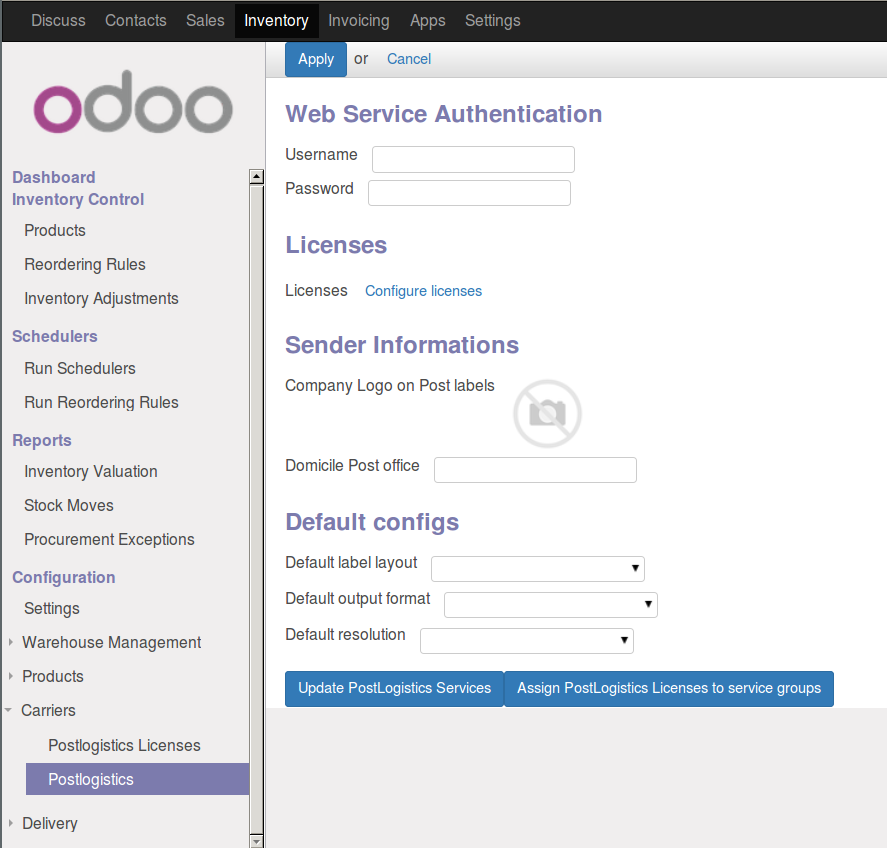
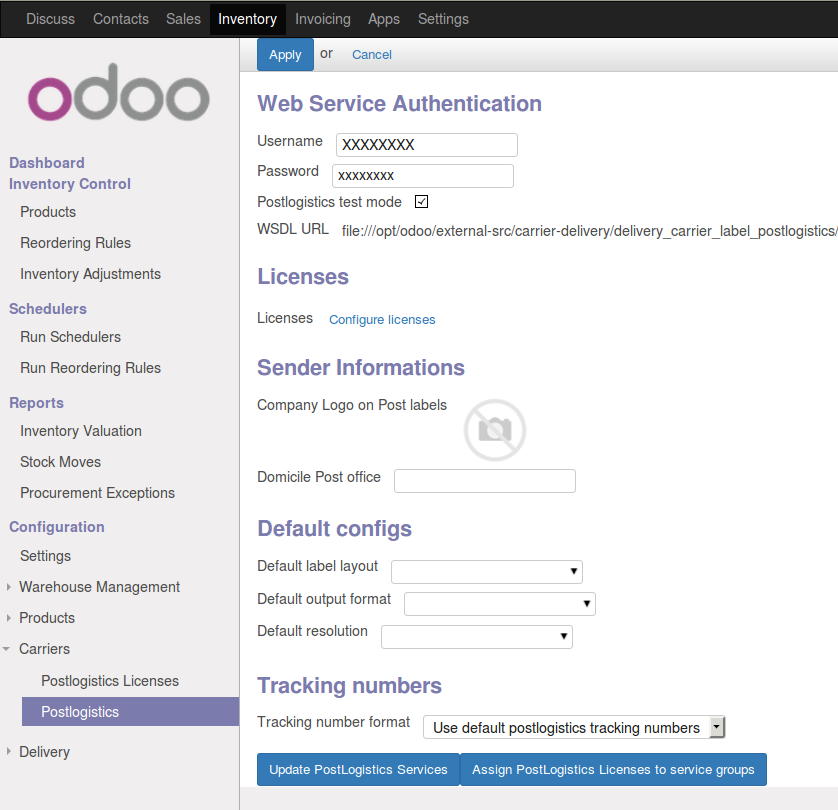
WIP

Changed region(s): [[0.0, 0.0, 1.0, 1.0], [0.5585, 0.4321, 0.6516, 0.5864], [0.5895, 0.1852, 0.6205, 0.216]]

diff --git a/delivery_carrier_label_postlogistics/doc/guides/delivery_method_setup.rst b/delivery_carrier_label_postlogistics/doc/guides/delivery_method_setup.rst
@@ -4,8 +4,7 @@
 Setting up delivery methods
 ###########################
 
-Before we can generate our first labels we needs to setup one or multiple *Delivery Methods*.
-of PostLogistics type.
+Before we can generate our first labels we needs to setup one or multiple *Delivery Methods* of PostLogistics type.
 
 There are several possibilities of option combination. Here we won't enumarate them all, please refer to `"Barcode" web service manual`_ for an exaustive list.
 
@@ -13,10 +12,12 @@ There are several possibilities of option combination. Here we won't enumarate t
 Create delivery method
 **********************
 
-Go in *Inventory/Settings/Delivery/Delivery Methods* and create a new delivery methods
+Go in *Inventory/Settings/Delivery/Delivery Methods* and create a new delivery methods:
 
 .. image:: ../_static/img/delivery_method1-create.png
    :alt: Menu Delivery Methods
+
+Here are the steps to configure your *Delivery Method*:
 
 1. Give a name to your delivery method
 2. Choose type *PostLogistics*
@@ -42,12 +43,16 @@ Add a basic service by adding on option.
    Important: only the basic options of the selected service group will be available.
    If your option is not there, for exemple you are looking for *Bulky goods "Lightning"* this one is in *Swiss-Express / Swiss-Courier* service group.
 3. *Save and close*
+4. *Save* the *Delivery Method*
 
-Save again the delivery method (We need to refresh the list as now we will have delivery instruction allowed with the basic service)
+The delivery method ready to be used. However, you might want to add some optional services and/or delivery instructions to it.
+
 
 *******************************************
 Optional services and delivery instructions
 *******************************************
+
+Make sure you have saved the *Delivery Method* when setting the *Basic service* (We need to refresh the list of options, once refreshed delivery instruction will be available).
 
 Now you can set as many other options and delivery instructions as you need.
 
@@ -66,7 +71,7 @@ There are 3 types of options:
     e. g. You can add a delivery instruction as optional for rare case when the customer asks to be called when the package arrives.
 
 
-Here is an exemple of *Applied by default* option.
+Here is an exemple of *Applied by default* option. *Applied by Default* is checked.
 
 .. image:: ../_static/img/delivery_method3-option-default.png
    :alt: Applied by default option

diff --git a/delivery_carrier_label_postlogistics/doc/guides/configuration.rst b/delivery_carrier_label_postlogistics/doc/guides/configuration.rst
@@ -8,8 +8,9 @@ Configuration
 Here you will find how to configure Postlogistics WSBC module we just have installed.
 
 The configuration is done in:
-for Odoo 7.0 and 8.0 in *Settings/Configuration/Carriers/Postlogistics*
-for Odoo 9.0 in *Inventory/Settings/Carriers/Postlogistics*
+
+* for Odoo 7.0 and 8.0 in *Settings/Configuration/Carriers/Postlogistics*
+* for Odoo 9.0 in *Inventory/Settings/Carriers/Postlogistics*
 
 .. image:: ../_static/img/postlogistics_settings.png
    :alt: *Inventory/Settings/Carriers/Postlogistics*
@@ -21,7 +22,10 @@ Web Service Authentication
 Fill user and password with the credentials provided by Postlogistics.
 
 If you want to use a test account you have to activate the "Test Mode" check box.
-Waring, if you want to use test mode, your setup needs a patch on library suds-jurko.
+
+.. warning:: If you want to use test mode, your setup needs a patch on library ``suds-jurko``.
+
+    See `suds patch <installation.html#suds_patch>`__.
 
 
 ******************
@@ -56,7 +60,7 @@ Postlogistics recommendations are of using a black and white logo for printing i
 
 If the logo is not set, company address will be printed on the label.
 
-Plus you should specify the Domicile Post office, ask Postlogistics if you are not sure.
+Plus you need to specify the Domicile Post office, ask Postlogistics if you are not sure. e. g. 3030 Bern
 
 ***************
 Default configs
@@ -109,5 +113,3 @@ Next step
 Can we print label now?
 
 No, we are not done yet. The next step is :ref:`delivery_method_setup`.
-
-

diff --git a/delivery_carrier_label_postlogistics/doc/guides/installation.rst b/delivery_carrier_label_postlogistics/doc/guides/installation.rst
@@ -4,4 +4,35 @@
 Installation
 ############
 
+In order to install PostLogistics WSBC module, make sur you have the following requirements and Odoo dependencies on your system.
 
+************
+Requirements
+************
+
+To use this module you need to install `suds-jurko`_ library
+(A library to manage SOAP calls)
+
+Make sure you use it over the unmaintained `suds` library.
+
+.. _suds_patch:
+
+.. important:: In case you want to use the test mode for developpement purpose, you will have to patch the library with the following patch.
+
+    https://fedorahosted.org/suds/attachment/ticket/239/suds_recursion.patch
+
+
+*****************
+Odoo dependencies
+*****************
+
+This module depends on module `base_delivery_carrier_label` you will find in the same module repository on https://github.com/OCA/carrier-delivery/
+
+Plus, if you are not using this module with automated tools, you will want to install **Attachments List and Document Indexation** (`document`) module. Otherwise you want be able to use the labels as they are created as attachments.
+
+Next step
+=========
+
+:ref:`configuration`
+
+.. _`suds-jurko`: https://pypi.python.org/pypi/suds-jurko

diff --git a/delivery_carrier_label_postlogistics/doc/guides/usage.rst b/delivery_carrier_label_postlogistics/doc/guides/usage.rst
@@ -6,3 +6,12 @@ Usage
 #####
 
 Now that we are set, we can use our delivery methods in Sales orders and Delivery orders.
+
+
+**********************
+Select a 
+**********************
+
+*****************
+Generate Label(s)
+*****************
